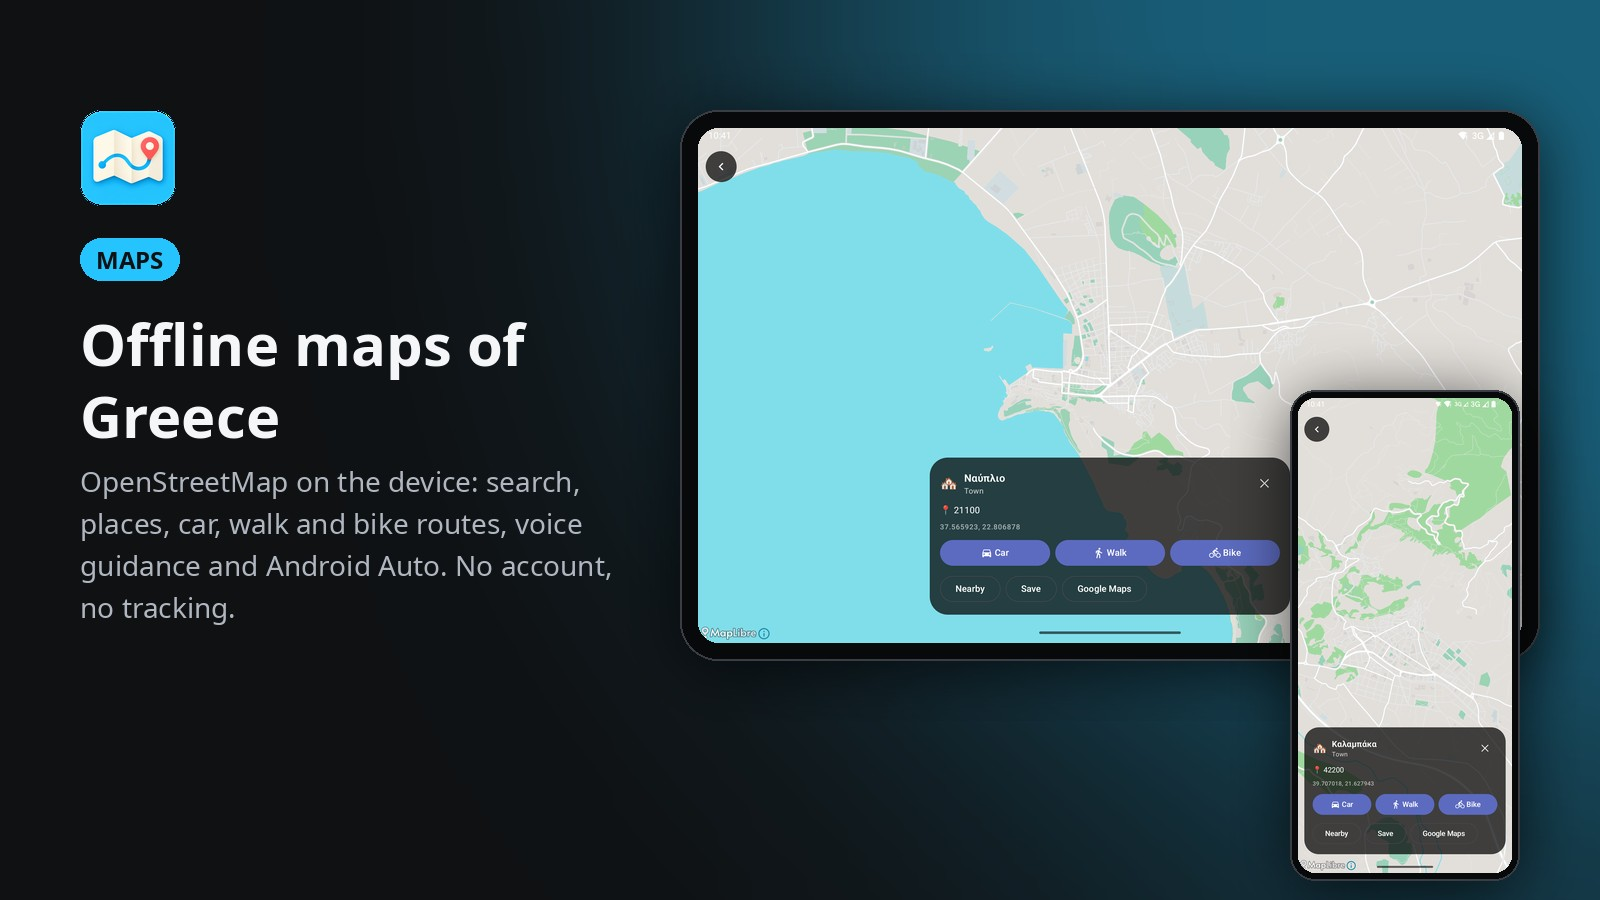
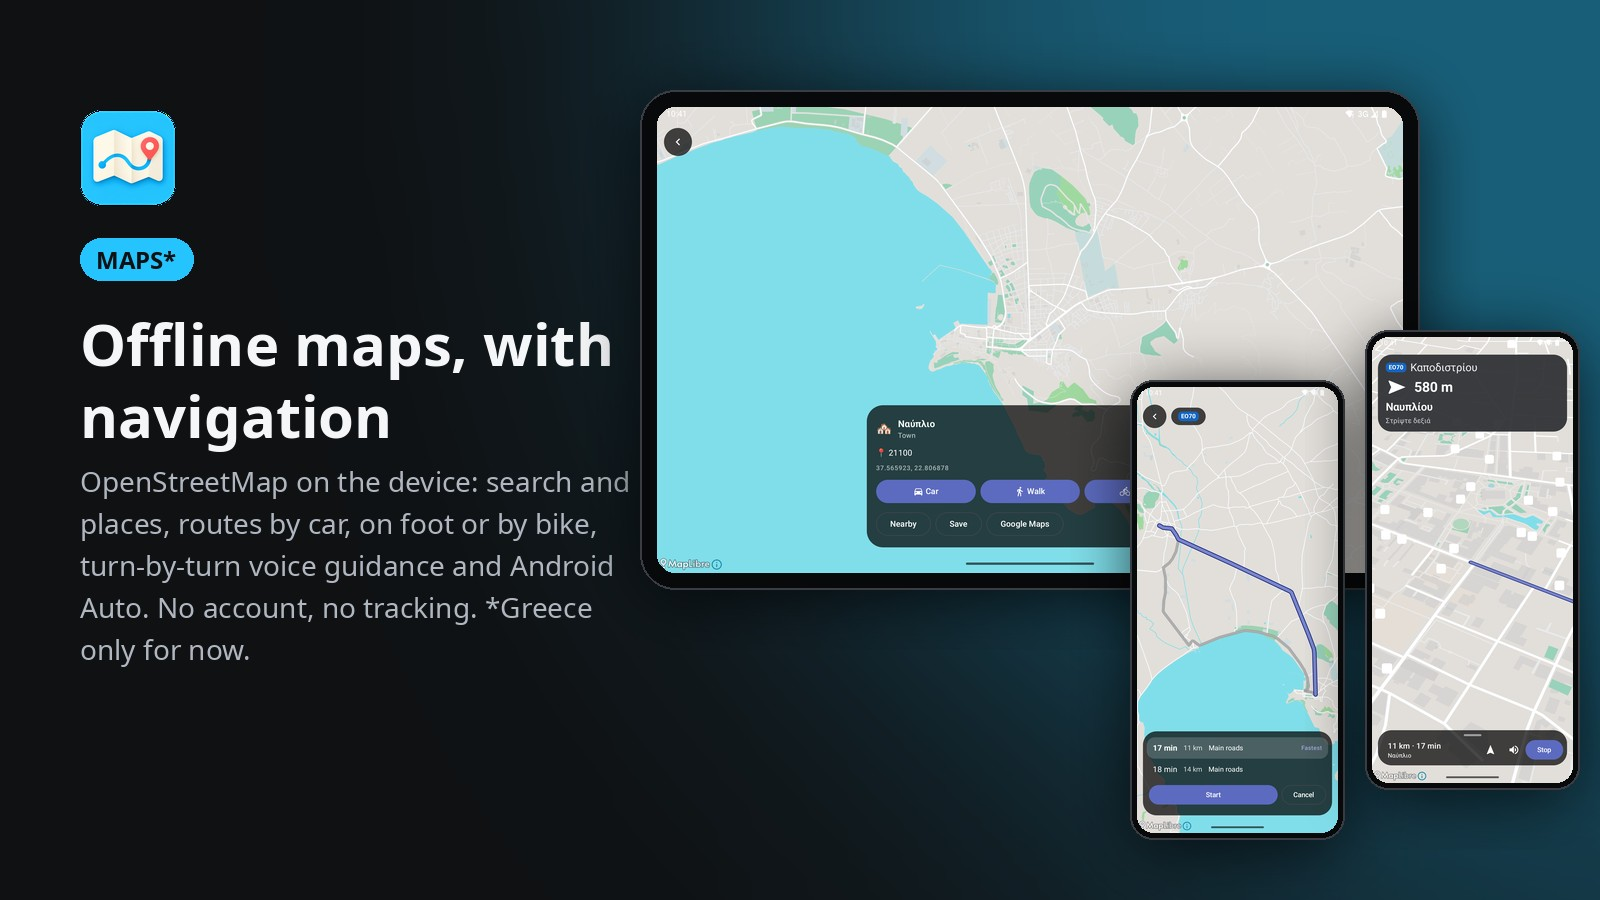
Pages and landing pages: each applet tab one or two cards, See it work folded into them, the loose screenshots gone; the Maps card with a route and turn-by-turn guidance (the user, 25 Oct)

diff --git a/docs/index.html b/docs/index.html
@@ -107,15 +107,6 @@
 
 <section>
   <div class="wrap">
-    <h2>See it work</h2>
-    <img class="wide-img" src="img/card-send.jpg" alt="Files both ways: Send to computer on the phone, Send to phone on the computer" loading="lazy">
-    <img class="wide-img" src="img/card-bubble.jpg" alt="Calls on your computer: the call bubble" loading="lazy">
-    <img class="wide-img" src="img/card-home.jpg" alt="Home your way: groups, a mix, icons only, edit mode" loading="lazy">
-  </div>
-</section>
-
-<section>
-  <div class="wrap">
     <h2>Every applet, on every screen</h2>
     <p class="sub">One Home, one folder, the same applets on Android and Linux. Also inside: Scanner, Codes and a Text editor.</p>
     <div class="grid cards-small">
@@ -134,112 +125,54 @@
       <button role="tab" id="tab-files" aria-controls="panel-files" aria-selected="false" tabindex="-1" style="--c:#177BFC;--on:#fff">Files</button>
       <button role="tab" id="tab-notes" aria-controls="panel-notes" aria-selected="false" tabindex="-1" style="--c:#FED00A;--on:#111">Notes</button>
       <button role="tab" id="tab-office" aria-controls="panel-office" aria-selected="false" tabindex="-1" style="--c:#FD7D12;--on:#111">Office</button>
-      <button role="tab" id="tab-calendar" aria-controls="panel-calendar" aria-selected="false" tabindex="-1" style="--c:#F41879;--on:#fff">Calendar</button>
-      <button role="tab" id="tab-timer" aria-controls="panel-timer" aria-selected="false" tabindex="-1" style="--c:#04D5CC;--on:#111">Timer</button>
+      <button role="tab" id="tab-calendar" aria-controls="panel-calendar" aria-selected="false" tabindex="-1" style="--c:#F41879;--on:#fff">Calendar · Timer</button>
       <button role="tab" id="tab-maps" aria-controls="panel-maps" aria-selected="false" tabindex="-1" style="--c:#25C4FE;--on:#111">Maps*</button>
       <button role="tab" id="tab-contacts" aria-controls="panel-contacts" aria-selected="false" tabindex="-1" style="--c:#BE7E4D;--on:#fff">Contacts</button>
       <button role="tab" id="tab-phone" aria-controls="panel-phone" aria-selected="false" tabindex="-1" style="--c:#1A9AA8;--on:#fff">Phone</button>
       <button role="tab" id="tab-data" aria-controls="panel-data" aria-selected="false" tabindex="-1" style="--c:#9AD01E;--on:#111">Data</button>
     </div>
     <div role="tabpanel" id="panel-home" aria-labelledby="tab-home">
-      <p>Every applet in one place, with its shortcuts; edit mode sets their size and order.</p>
-      <div class="shots">
-        <figure class="phone"><a href="img/shots/home-phone0.jpg"><img src="img/shots/home-phone0.jpg" alt="Home: Groups" loading="lazy"></a><figcaption>Groups</figcaption></figure>
-        <figure class="phone"><a href="img/shots/home-phone1.jpg"><img src="img/shots/home-phone1.jpg" alt="Home: A mix" loading="lazy"></a><figcaption>A mix</figcaption></figure>
-        <figure class="phone"><a href="img/shots/home-phone2.jpg"><img src="img/shots/home-phone2.jpg" alt="Home: Icons only" loading="lazy"></a><figcaption>Icons only</figcaption></figure>
-        <figure class="phone"><a href="img/shots/home-phone3.jpg"><img src="img/shots/home-phone3.jpg" alt="Home: Edit mode" loading="lazy"></a><figcaption>Edit mode</figcaption></figure>
-        <figure class="wide"><a href="img/shots/home-tablet4.jpg"><img src="img/shots/home-tablet4.jpg" alt="Home: Tablet" loading="lazy"></a><figcaption>Tablet</figcaption></figure>
-      </div>
+      <p>Groups, a mix, or icons only: drag, resize or hide every part.</p>
+      <img class="wide-img" src="img/card-home.jpg" alt="Home" loading="lazy">
     </div>
     <div role="tabpanel" id="panel-photos" aria-labelledby="tab-photos" hidden>
-      <p>Timeline, collections, people and documents found on the device, a map, search and an editor.</p>
-      <div class="shots">
-        <figure class="phone"><a href="img/shots/photos-phone0.jpg"><img src="img/shots/photos-phone0.jpg" alt="Photos: Phone" loading="lazy"></a><figcaption>Phone</figcaption></figure>
-        <figure class="wide"><a href="img/shots/photos-tablet1.jpg"><img src="img/shots/photos-tablet1.jpg" alt="Photos: Tablet" loading="lazy"></a><figcaption>Tablet</figcaption></figure>
-        <figure class="wide"><a href="img/shots/photos-computer2.jpg"><img src="img/shots/photos-computer2.jpg" alt="Photos: Computer" loading="lazy"></a><figcaption>Computer</figcaption></figure>
-      </div>
+      <p>Your gallery on your own devices, faces and labels worked out on them.</p>
+      <img class="wide-img" src="img/card-photos.jpg" alt="Photos" loading="lazy">
     </div>
     <div role="tabpanel" id="panel-files" aria-labelledby="tab-files" hidden>
-      <p>Tags, favourites, folder colours, a Trash, an icon for every kind of file, and files sent both ways.</p>
-      <div class="shots">
-        <figure class="phone"><a href="img/shots/files-phone0.jpg"><img src="img/shots/files-phone0.jpg" alt="Files: Phone" loading="lazy"></a><figcaption>Phone</figcaption></figure>
-        <figure class="phone"><a href="img/shots/files-phone3.jpg"><img src="img/shots/files-phone3.jpg" alt="Files: Share › Send to computer" loading="lazy"></a><figcaption>Share › Send to computer</figcaption></figure>
-        <figure class="phone"><a href="img/shots/files-phone4.jpg"><img src="img/shots/files-phone4.jpg" alt="Files: What the computer sent" loading="lazy"></a><figcaption>What the computer sent</figcaption></figure>
-        <figure class="wide"><a href="img/shots/files-tablet1.jpg"><img src="img/shots/files-tablet1.jpg" alt="Files: Tablet" loading="lazy"></a><figcaption>Tablet</figcaption></figure>
-        <figure class="wide"><a href="img/shots/files-computer2.jpg"><img src="img/shots/files-computer2.jpg" alt="Files: Computer" loading="lazy"></a><figcaption>Computer</figcaption></figure>
-        <figure class="wide"><a href="img/shots/files-computer5.jpg"><img src="img/shots/files-computer5.jpg" alt="Files: Send to phone, on the computer" loading="lazy"></a><figcaption>Send to phone, on the computer</figcaption></figure>
-      </div>
+      <p>A file manager with an icon for every kind, and files sent both ways in a second.</p>
+      <img class="wide-img" src="img/card-files.jpg" alt="Files" loading="lazy">
+      <img class="wide-img" src="img/card-send.jpg" alt="Files" loading="lazy">
     </div>
     <div role="tabpanel" id="panel-notes" aria-labelledby="tab-notes" hidden>
-      <p>Notes and checklists with colours, labels, pins and history.</p>
-      <div class="shots">
-        <figure class="phone"><a href="img/shots/notes-phone0.jpg"><img src="img/shots/notes-phone0.jpg" alt="Notes: Phone" loading="lazy"></a><figcaption>Phone</figcaption></figure>
-        <figure class="wide"><a href="img/shots/notes-tablet1.jpg"><img src="img/shots/notes-tablet1.jpg" alt="Notes: Tablet" loading="lazy"></a><figcaption>Tablet</figcaption></figure>
-        <figure class="wide"><a href="img/shots/notes-computer2.jpg"><img src="img/shots/notes-computer2.jpg" alt="Notes: Computer" loading="lazy"></a><figcaption>Computer</figcaption></figure>
-      </div>
+      <p>Notes and checklists that sync with the computer.</p>
+      <img class="wide-img" src="img/card-notes.jpg" alt="Notes" loading="lazy">
     </div>
     <div role="tabpanel" id="panel-office" aria-labelledby="tab-office" hidden>
-      <p>Words, Tables, Slides and PDF, with the ribbon, rulers, charts and themes.</p>
-      <div class="shots">
-        <figure class="phone"><a href="img/shots/office-phone0.jpg"><img src="img/shots/office-phone0.jpg" alt="Office: Office on a phone" loading="lazy"></a><figcaption>Office on a phone</figcaption></figure>
-        <figure class="wide"><a href="img/shots/office-tablet1.jpg"><img src="img/shots/office-tablet1.jpg" alt="Office: Words" loading="lazy"></a><figcaption>Words</figcaption></figure>
-        <figure class="wide"><a href="img/shots/office-tablet2.jpg"><img src="img/shots/office-tablet2.jpg" alt="Office: Tables" loading="lazy"></a><figcaption>Tables</figcaption></figure>
-        <figure class="wide"><a href="img/shots/office-tablet3.jpg"><img src="img/shots/office-tablet3.jpg" alt="Office: Slides" loading="lazy"></a><figcaption>Slides</figcaption></figure>
-        <figure class="wide"><a href="img/shots/office-tablet4.jpg"><img src="img/shots/office-tablet4.jpg" alt="Office: PDF" loading="lazy"></a><figcaption>PDF</figcaption></figure>
-        <figure class="wide"><a href="img/shots/office-big5.jpg"><img src="img/shots/office-big5.jpg" alt="Office: Words on a big screen" loading="lazy"></a><figcaption>Words on a big screen</figcaption></figure>
-      </div>
+      <p>Words, Tables, Slides and PDF, on a phone, a tablet or a big screen.</p>
+      <img class="wide-img" src="img/card-office.jpg" alt="Office" loading="lazy">
     </div>
     <div role="tabpanel" id="panel-calendar" aria-labelledby="tab-calendar" hidden>
-      <p>Day, week, month and agenda, repeats, reminders, birthdays from Contacts.</p>
-      <div class="shots">
-        <figure class="phone"><a href="img/shots/calendar-phone0.jpg"><img src="img/shots/calendar-phone0.jpg" alt="Calendar: Phone" loading="lazy"></a><figcaption>Phone</figcaption></figure>
-        <figure class="wide"><a href="img/shots/calendar-tablet1.jpg"><img src="img/shots/calendar-tablet1.jpg" alt="Calendar: Tablet" loading="lazy"></a><figcaption>Tablet</figcaption></figure>
-        <figure class="wide"><a href="img/shots/calendar-computer2.jpg"><img src="img/shots/calendar-computer2.jpg" alt="Calendar: Computer" loading="lazy"></a><figcaption>Computer</figcaption></figure>
-      </div>
-    </div>
-    <div role="tabpanel" id="panel-timer" aria-labelledby="tab-timer" hidden>
-      <p>Timers that ring on whichever device you are at.</p>
-      <div class="shots">
-        <figure class="phone"><a href="img/shots/timer-phone0.jpg"><img src="img/shots/timer-phone0.jpg" alt="Timer: Phone" loading="lazy"></a><figcaption>Phone</figcaption></figure>
-        <figure class="wide"><a href="img/shots/timer-tablet1.jpg"><img src="img/shots/timer-tablet1.jpg" alt="Timer: Tablet" loading="lazy"></a><figcaption>Tablet</figcaption></figure>
-        <figure class="wide"><a href="img/shots/timer-computer2.jpg"><img src="img/shots/timer-computer2.jpg" alt="Timer: Computer" loading="lazy"></a><figcaption>Computer</figcaption></figure>
-      </div>
+      <p>Calendars and timers as plain files that sync, ring on every device, and Claude can work with.</p>
+      <img class="wide-img" src="img/card-calendar.jpg" alt="Calendar · Timer" loading="lazy">
     </div>
     <div role="tabpanel" id="panel-maps" aria-labelledby="tab-maps" hidden>
-      <p>Search, saved places, lists and trips, routes and turn-by-turn guidance. *Greece only for now.</p>
-      <div class="shots">
-        <figure class="phone"><a href="img/shots/maps-phone0.jpg"><img src="img/shots/maps-phone0.jpg" alt="Maps: A place" loading="lazy"></a><figcaption>A place</figcaption></figure>
-        <figure class="phone"><a href="img/shots/maps-phone3.jpg"><img src="img/shots/maps-phone3.jpg" alt="Maps: Two routes to choose from" loading="lazy"></a><figcaption>Two routes to choose from</figcaption></figure>
-        <figure class="phone"><a href="img/shots/maps-phone4.jpg"><img src="img/shots/maps-phone4.jpg" alt="Maps: Turn-by-turn guidance" loading="lazy"></a><figcaption>Turn-by-turn guidance</figcaption></figure>
-        <figure class="wide"><a href="img/shots/maps-tablet1.jpg"><img src="img/shots/maps-tablet1.jpg" alt="Maps: Tablet" loading="lazy"></a><figcaption>Tablet</figcaption></figure>
-        <figure class="wide"><a href="img/shots/maps-computer2.jpg"><img src="img/shots/maps-computer2.jpg" alt="Maps: Computer" loading="lazy"></a><figcaption>Computer</figcaption></figure>
-      </div>
+      <p>Offline, with routes and turn-by-turn guidance. *Greece only for now.</p>
+      <img class="wide-img" src="img/card-maps.jpg" alt="Maps" loading="lazy">
     </div>
     <div role="tabpanel" id="panel-contacts" aria-labelledby="tab-contacts" hidden>
-      <p>vCard files with faces from Photos, favourites, labels and each person's calls.</p>
-      <div class="shots">
-        <figure class="phone"><a href="img/shots/contacts-phone0.jpg"><img src="img/shots/contacts-phone0.jpg" alt="Contacts: Phone" loading="lazy"></a><figcaption>Phone</figcaption></figure>
-        <figure class="wide"><a href="img/shots/contacts-tablet1.jpg"><img src="img/shots/contacts-tablet1.jpg" alt="Contacts: Tablet" loading="lazy"></a><figcaption>Tablet</figcaption></figure>
-        <figure class="wide"><a href="img/shots/contacts-computer2.jpg"><img src="img/shots/contacts-computer2.jpg" alt="Contacts: Computer" loading="lazy"></a><figcaption>Computer</figcaption></figure>
-      </div>
+      <p>Your contacts as vCard files, with faces from Photos.</p>
+      <img class="wide-img" src="img/card-people.jpg" alt="Contacts" loading="lazy">
     </div>
     <div role="tabpanel" id="panel-phone" aria-labelledby="tab-phone" hidden>
-      <p>The dialer: Recents, Favourites, blocking and spam lookup; on the computer, the call bubble.</p>
-      <div class="shots">
-        <figure class="phone"><a href="img/shots/phone-phone0.jpg"><img src="img/shots/phone-phone0.jpg" alt="Phone: Phone" loading="lazy"></a><figcaption>Phone</figcaption></figure>
-        <figure class="wide"><a href="img/shots/phone-tablet1.jpg"><img src="img/shots/phone-tablet1.jpg" alt="Phone: Tablet" loading="lazy"></a><figcaption>Tablet</figcaption></figure>
-        <figure class="wide"><a href="img/shots/phone-computer2.jpg"><img src="img/shots/phone-computer2.jpg" alt="Phone: Computer" loading="lazy"></a><figcaption>Computer</figcaption></figure>
-        <figure class="wide"><a href="img/card-bubble.jpg"><img src="img/card-bubble.jpg" alt="Phone: Answer calls from your PC, right where you are working" loading="lazy"></a><figcaption>Answer calls from your PC, right where you are working</figcaption></figure>
-      </div>
+      <p>No need to reach for your phone: answer any call from your PC, right where you are working.</p>
+      <img class="wide-img" src="img/card-bubble.jpg" alt="Phone" loading="lazy">
     </div>
     <div role="tabpanel" id="panel-data" aria-labelledby="tab-data" hidden>
-      <p>Usage per app on mobile and Wi-Fi, the hotspot, Wi-Fi signal and drops.</p>
-      <div class="shots">
-        <figure class="phone"><a href="img/shots/data-phone0.jpg"><img src="img/shots/data-phone0.jpg" alt="Data: Phone" loading="lazy"></a><figcaption>Phone</figcaption></figure>
-        <figure class="wide"><a href="img/shots/data-tablet1.jpg"><img src="img/shots/data-tablet1.jpg" alt="Data: Tablet" loading="lazy"></a><figcaption>Tablet</figcaption></figure>
-      </div>
+      <p>Your plan watched, with a notification at any step you choose.</p>
+      <img class="wide-img" src="img/card-data.jpg" alt="Data" loading="lazy">
     </div>
-    <p class="note">Screenshots use invented sample data. Tap one to see it full size.</p>
+    <p class="note">Screenshots use invented sample data.</p>
   </div>
 </section>
 

diff --git a/README.md b/README.md
@@ -41,21 +41,18 @@ your own backups. Screenshots use invented sample data.
 
 <sub>\* Maps and finding photos by place cover Greece only for now; other countries will follow.</sub>
 
-## See it work
-
-![Files both ways: Send to computer on the phone, Send to phone on the computer](Assets/cards/card-send.jpg)
-![Calls on your computer: the call bubble](Assets/cards/card-bubble.jpg)
-![Home your way: groups, a mix, icons only, edit mode](Assets/cards/card-home.jpg)
-
 ## The applets
 
+![Home your way: groups, a mix, icons only, edit mode](Assets/cards/card-home.jpg)
 ![Office: Words, Tables, Slides and PDF](Assets/cards/card-office.jpg)
 ![Photos](Assets/cards/card-photos.jpg)
 ![Notes](Assets/cards/card-notes.jpg)
 ![Calendar and Timer](Assets/cards/card-calendar.jpg)
 ![Contacts and Phone](Assets/cards/card-people.jpg)
+![Calls on your computer: the call bubble](Assets/cards/card-bubble.jpg)
 ![Maps](Assets/cards/card-maps.jpg)
 ![Files](Assets/cards/card-files.jpg)
+![Files both ways: Send to computer on the phone, Send to phone on the computer](Assets/cards/card-send.jpg)
 ![Data](Assets/cards/card-data.jpg)
 
 Also inside: **Scanner** (paper to PDF, the page found live and straightened), **Codes** (QR codes, barcodes, text
